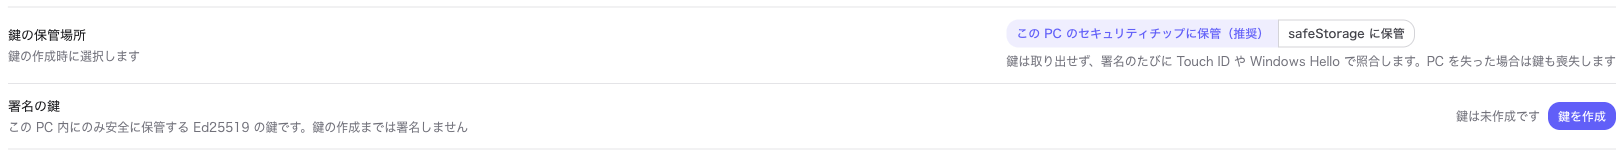
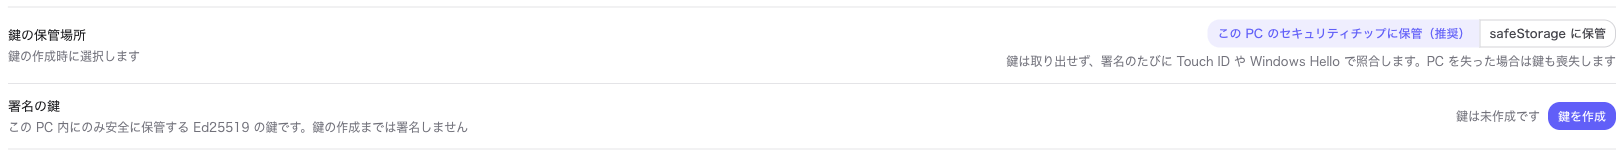
feat: 設定行のスタイルを改善し、非スタック時の制御要素の配置を調整・ライセンス表記漏れの修正

Changed region(s): [[0.6158, 0.1783, 1.0, 0.2548]]

diff --git a/src/renderer/components/SettingRow.vue b/src/renderer/components/SettingRow.vue
@@ -64,4 +64,9 @@ defineProps<{ label?: string; description?: string; stacked?: boolean }>()
 .stacked .control {
     flex-shrink: 1;
 }
+
+.row:not(.stacked) .control :deep(.seg-wrap) {
+    align-items: flex-end;
+    text-align: right;
+}
 </style>
